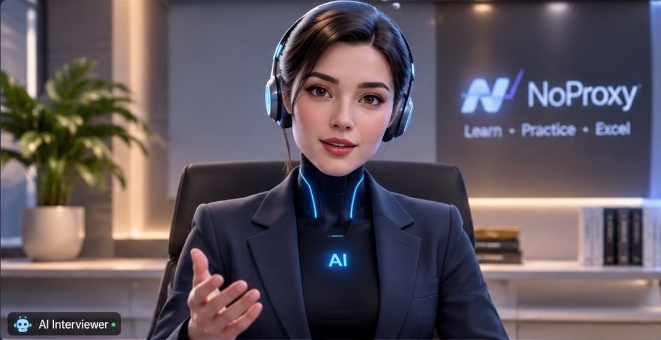
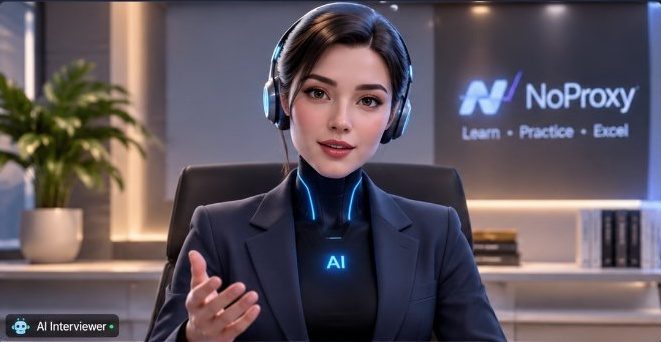
fix(interview): exact NoProxy room layout, realistic interviewer, external USB mic hotplugging, end call scorecard, and linkview-backend routing

diff --git a/src/components/interview/VoiceInterviewRoom.tsx b/src/components/interview/VoiceInterviewRoom.tsx
@@ -1,6 +1,9 @@
 import React, { useState, useEffect, useRef, useCallback } from "react";
 import { Link, useNavigate, useSearchParams } from "react-router-dom";
 import { useAuth } from "../../context/AuthContext";
+import { getApiBaseUrl } from "../../services/api";
+
+const BASE_URL = getApiBaseUrl();
 import {
   Mic,
   MicOff,
@@ -84,7 +87,7 @@ export function VoiceInterviewRoom({
       setPreflightOpen(false);
       setInterviewStarted(true);
       setupActiveMicStream(selectedMicDeviceId);
-      fetch(`/api/interviews?id=${sid}`)
+      fetch(`${BASE_URL}/interviews?id=${sid}`)
         .then((res) => res.json())
         .then((data) => {
           if (data.success && data.data) {
@@ -330,6 +333,33 @@ export function VoiceInterviewRoom({
     }
   }, [selectedMicDeviceId, interviewStarted, completed, setupActiveMicStream]);
 
+  // Hotplug detection: auto-detect when candidate plugs in an external USB microphone
+  useEffect(() => {
+    if (typeof navigator === "undefined" || !navigator.mediaDevices?.addEventListener) return;
+    const handleDeviceChange = async () => {
+      try {
+        const devices = await navigator.mediaDevices.enumerateDevices();
+        const mics = devices.filter((d) => d.kind === "audioinput");
+        const usbMic = mics.find((m) =>
+          m.label.toLowerCase().includes("usb") ||
+          m.label.toLowerCase().includes("external") ||
+          m.label.toLowerCase().includes("headset") ||
+          m.label.toLowerCase().includes("wireless") ||
+          m.label.toLowerCase().includes("bluetooth")
+        );
+        if (usbMic && usbMic.deviceId !== selectedMicDeviceId) {
+          setSelectedMicDeviceId(usbMic.deviceId);
+          setSelectedMicLabel(usbMic.label || "External USB Microphone");
+          setupActiveMicStream(usbMic.deviceId);
+        }
+      } catch {}
+    };
+    navigator.mediaDevices.addEventListener("devicechange", handleDeviceChange);
+    return () => {
+      navigator.mediaDevices.removeEventListener("devicechange", handleDeviceChange);
+    };
+  }, [selectedMicDeviceId, setupActiveMicStream]);
+
   // Timer interval
   useEffect(() => {
     if (!interviewStarted || completed) return;
@@ -371,7 +401,7 @@ export function VoiceInterviewRoom({
       const activeId = sessionId || `int-session-${now}`;
 
       try {
-        const res = await fetch("/api/proctoring", {
+        const res = await fetch(`${BASE_URL}/proctoring`, {
           method: "POST",
           headers: { "Content-Type": "application/json" },
           body: JSON.stringify({
@@ -524,7 +554,7 @@ export function VoiceInterviewRoom({
     const persona = AVATAR_PERSONAS[selectedPersona];
 
     try {
-      const ttsRes = await fetch("/api/tts", {
+      const ttsRes = await fetch(`${BASE_URL}/tts`, {
         method: "POST",
         headers: { "Content-Type": "application/json" },
         body: JSON.stringify({
@@ -733,13 +763,13 @@ export function VoiceInterviewRoom({
     setupActiveMicStream(selectedMicDeviceId);
 
     try {
-      const res = await fetch("/api/interviews", {
+      const res = await fetch(`${BASE_URL}/interviews`, {
         method: "POST",
         headers: { "Content-Type": "application/json" },
         body: JSON.stringify({
           track: track.toLowerCase(),
           difficulty,
-          studentName: authUser?.fullName || "Candidate",
+          studentName: authUser?.fullName || authUser?.full_name || "Candidate",
         }),
       });
 
@@ -905,11 +935,12 @@ export function VoiceInterviewRoom({
 
     try {
       const activeId = sessionId || `int-fallback-${Date.now()}`;
-      const res = await fetch("/api/interviews", {
+      const res = await fetch(`${BASE_URL}/interviews`, {
         method: "PUT",
         headers: { "Content-Type": "application/json" },
         body: JSON.stringify({
           sessionId: activeId,
+          track,
           answer: finalAnswer,
           proctoringEvents: proctoringLogs,
         }),
@@ -920,9 +951,9 @@ export function VoiceInterviewRoom({
         const session = data.data;
         setTurnHistory(session.history || session.turns || []);
 
-        if (session.status === "completed" || session.currentTurn > session.totalTurns) {
+        if (session.status === "completed" || session.currentTurn > session.totalTurns || data.scorecard) {
           setCompleted(true);
-          setFinalScorecard(session.scorecard || session.finalFeedback || {});
+          setFinalScorecard(data.scorecard || session.scorecard || session.finalFeedback || {});
         } else {
           setCurrentTurn(session.currentTurn);
           setCurrentQuestion(session.currentQuestion);
@@ -950,34 +981,45 @@ export function VoiceInterviewRoom({
     if (sharedStream) {
       sharedStream.getTracks().forEach((track) => track.stop());
     }
+    if (activeMicStreamRef.current) {
+      activeMicStreamRef.current.getTracks().forEach((track) => track.stop());
+    }
 
     const currentAns = (studentAnswer + (interimText ? ` ${interimText}` : "")).trim();
 
     try {
-      if (sessionId) {
-        await fetch("/api/interviews", {
-          method: "PUT",
-          headers: { "Content-Type": "application/json" },
-          body: JSON.stringify({
-            sessionId,
-            answer: currentAns || "Interview concluded by candidate.",
-            action: "end",
-            proctoringEvents: proctoringLogs,
-          }),
-        }).catch(() => {});
+      const activeId = sessionId || `int-fallback-${Date.now()}`;
+      const res = await fetch(`${BASE_URL}/interviews`, {
+        method: "PUT",
+        headers: { "Content-Type": "application/json" },
+        body: JSON.stringify({
+          sessionId: activeId,
+          track,
+          answer: currentAns || "Interview concluded by candidate.",
+          action: "end",
+          proctoringEvents: proctoringLogs,
+        }),
+      });
+      const data = await res.json();
+      if (data.success && (data.scorecard || data.data?.scorecard)) {
+        setFinalScorecard(data.scorecard || data.data.scorecard);
+        setCompleted(true);
+        return;
       }
-    } catch {}
+    } catch (e) {
+      console.warn("End interview API call notice:", e);
+    }
 
     const count = turnHistory.length + (currentAns ? 1 : 0);
-    const score = Math.min(95, Math.max(50, Math.round(52 + count * 10)));
+    const score = Math.min(95, Math.max(55, Math.round(65 + count * 8)));
     setFinalScorecard({
       overallScore: score,
       technicalAccuracy: Math.min(95, score + 4),
-      conceptualUnderstanding: Math.max(48, score - 3),
-      communication: Math.min(92, score + 2),
-      problemSolving: Math.max(50, score - 2),
+      conceptualUnderstanding: Math.max(50, score - 2),
+      communication: Math.min(92, score + 3),
+      problemSolving: Math.max(52, score - 1),
       strengths: [
-        "Structured verbal communication under live assessment",
+        `Structured verbal communication on ${track} core concepts`,
         "Clear technical vocabulary and domain terminology",
         "Prompt engagement and professional demeanor",
       ],
@@ -989,7 +1031,7 @@ export function VoiceInterviewRoom({
         `Review internal system mechanics and memory allocation for ${track}`,
         "Practice mock interview sessions to build oral conciseness",
       ],
-      aiFeedback: `Interview ended voluntarily by candidate. Evaluation summarized across completed turns with an overall score of ${score}%.`,
+      aiFeedback: `Interview ended voluntarily by candidate. Evaluation summarized across ${count} completed turn(s) with an overall score of ${score}%.`,
     });
     setCompleted(true);
   };

diff --git a/src/services/api.js b/src/services/api.js
@@ -6,7 +6,7 @@ export const getApiBaseUrl = () => {
   }
   // When running in production (e.g. Vercel), connect directly to the live Render backend
   if (typeof window !== 'undefined' && window.location.hostname && !window.location.hostname.includes('localhost') && window.location.hostname !== '127.0.0.1') {
-    return 'https://linktest-backend.onrender.com/api';
+    return 'https://linkview-backend.onrender.com/api';
   }
   return '/api';
 };
@@ -47,7 +47,7 @@ class ApiClient {
 
       // If relative '/api' returned 404 or 405 (e.g. static rewrite), retry against Render backend directly
       if ((response.status === 404 || response.status === 405) && !url.startsWith('http') && typeof window !== 'undefined') {
-        const directUrl = `https://linktest-backend.onrender.com/api${endpoint}`;
+        const directUrl = `https://linkview-backend.onrender.com/api${endpoint}`;
         try {
           const directRes = await fetch(directUrl, { ...options, headers });
           if (directRes.ok || directRes.status < 500) {
@@ -128,16 +128,33 @@ class ApiClient {
       method: 'POST',
       body: JSON.stringify({ email, password })
     });
-    if (res.data?.token) {
-      this.setToken(res.data.token);
+    const token = res?.data?.token || res?.token;
+    if (token) {
+      this.setToken(token);
     }
-    return res.data;
+    const user = res?.data?.user || res?.user || res?.data;
+    return {
+      user: user ? {
+        ...user,
+        role: String(user.role || '').toUpperCase(),
+        fullName: user.fullName || user.full_name,
+        full_name: user.full_name || user.fullName,
+      } : null,
+      token,
+      ...(res?.data || res || {})
+    };
   }
 
   async getMe() {
     if (!this.token) return null;
     const res = await this.request('/auth/me');
-    return res.data.user;
+    const user = res?.data?.user || res?.user || res?.data;
+    return user ? {
+      ...user,
+      role: String(user.role || '').toUpperCase(),
+      fullName: user.fullName || user.full_name,
+      full_name: user.full_name || user.fullName,
+    } : null;
   }
 
   async loginWithGoogle(credential) {

diff --git a/src/context/AuthContext.jsx b/src/context/AuthContext.jsx
@@ -70,9 +70,14 @@ export function AuthProvider({ children }) {
     setUser(null);
   };
 
+  const rawRole = String(user?.role || '').toUpperCase();
+  const mappedRole = (rawRole === 'TRAINER') ? 'TEACHER' : (rawRole === 'SUPER_ADMIN') ? 'ADMIN' : rawRole;
+
   const normalizedUser = user ? {
     ...user,
-    role: String(user.role || '').toUpperCase()
+    role: mappedRole,
+    fullName: user.fullName || user.full_name,
+    full_name: user.full_name || user.fullName,
   } : null;
 
   const value = {
